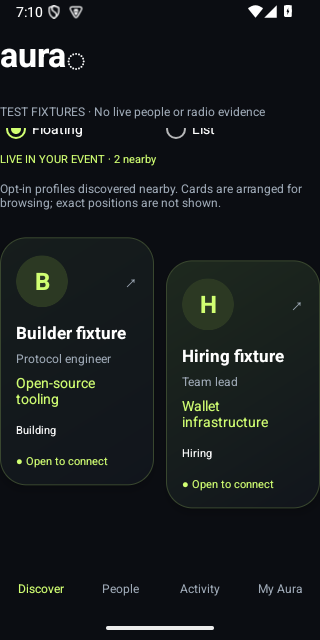
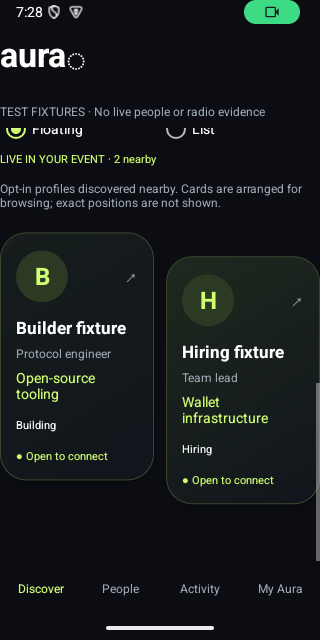
Add live room camera with authorized nearby profiles

diff --git a/ios/Aura/Features/Discovery/DiscoveryView.swift b/ios/Aura/Features/Discovery/DiscoveryView.swift
@@ -1,5 +1,6 @@
 import SwiftUI
 import AVKit
+import AVFoundation
 struct DiscoveryView: View {
     @ObservedObject var model: DiscoveryViewModel
     @State private var query = ""
@@ -16,9 +17,9 @@ struct DiscoveryView: View {
             Text("Builders around you.").font(.system(size:36,weight:.semibold)).tracking(-1)
             Text("Find a collaborator. Meet your next team.").font(.subheadline).foregroundStyle(.secondary)
             Picker("Event",selection:$model.selectedEvent) { Text("Choose an event").tag("");ForEach(model.events) { Text($0.name).tag($0.id) } }.disabled(model.active)
+            Button { showCamera = true } label: { Label("Open room camera",systemImage:"camera.fill").frame(maxWidth:.infinity) }.buttonStyle(.borderedProminent).foregroundStyle(.black)
             HStack {
                 Button(model.active ? "Pause discovery" : "Start discovery ↗") { model.perform { if model.active { await model.stop() } else { try await model.start() } } }.buttonStyle(.borderedProminent).foregroundStyle(.black).disabled(model.busy)
-                Button { showCamera = true } label: { Image(systemName:"camera.viewfinder").font(.title2) }.disabled(!model.active)
             }
             DiscoveryStatus(broadcaster:model.broadcaster,scanner:model.scanner,message:model.statusMessage)
             ForEach(model.requests) { r in VStack(alignment:.leading,spacing:10) {
@@ -42,7 +43,7 @@ struct DiscoveryView: View {
                     Spacer();Image(systemName:"arrow.up.right").foregroundStyle(.secondary)
                 }.padding(18).background(.white.opacity(0.04),in:RoundedRectangle(cornerRadius:18)) } .buttonStyle(.plain) }
             }
-        }.padding(24) }.background(AuraTheme.background).navigationBarHidden(true).sheet(isPresented:$showCamera) { CameraSheet(model:model,positioning:model.positioning) } }
+        }.padding(24) }.background(AuraTheme.background).navigationBarHidden(true).fullScreenCover(isPresented:$showCamera) { CameraSheet(model:model,positioning:model.positioning) } }
     }
 }
 struct DiscoveryStatus:View {
@@ -55,10 +56,54 @@ struct CameraSheet:View {
     @ObservedObject var model:DiscoveryViewModel
     @ObservedObject var positioning:UWBSessionManager
     @Environment(\.dismiss) var dismiss
-    var body:some View { ZStack(alignment:.bottom) {
-        ARAuraView(positioning:positioning,name:model.peers.first(where:{$0.id==positioning.peerID})?.profile.name ?? "Participant").ignoresSafeArea()
-        VStack(spacing:12) { Text("MEASURED DEVICE POSITION").font(.caption2).tracking(2);Text(positioning.message).font(.subheadline);if let distance = positioning.distance { Text("\(distance,specifier:"%.2f") m").font(.title) };Button("Back to nearby list") { dismiss() }.buttonStyle(.borderedProminent).foregroundStyle(.black) }.padding(24).frame(maxWidth:.infinity).background(.ultraThinMaterial)
-    }.onDisappear { Task { await model.endPositioning() } } }
+    @Environment(\.scenePhase) private var phase
+    @State private var cameraAllowed = false
+    @State private var permissionChecked = false
+    @State private var cameraPeer:AuraProfile?
+    var body:some View { ZStack {
+        Color.black.ignoresSafeArea()
+        if cameraAllowed && phase == .active {
+            ARAuraView(positioning:positioning,name:model.peers.first(where:{$0.id==positioning.peerID})?.profile.name ?? "Participant",select:{
+                cameraPeer = model.peers.first(where:{$0.id==positioning.peerID})?.profile
+            }).ignoresSafeArea()
+        } else if permissionChecked {
+            ContentUnavailableView("Camera access is off",systemImage:"camera",description:Text("Allow Camera for Aura in Settings, or use nearby profiles without it.")).foregroundStyle(.white)
+        }
+        VStack(alignment:.leading,spacing:16) {
+            HStack {
+                VStack(alignment:.leading,spacing:5) { Text("aura◌").font(.title.bold());Text("ROOM CAMERA · LIVE ONLY").font(.caption2).tracking(2) }
+                Spacer()
+                Button { dismiss() } label: { Image(systemName:"xmark").padding(12).background(.black.opacity(0.55),in:Circle()) }.accessibilityLabel("Close room camera")
+            }.padding().background(.black.opacity(0.55))
+            Spacer()
+            VStack(alignment:.leading,spacing:12) {
+                HStack { Text(model.active ? "\(model.peers.count) nearby" : "Discovery paused").font(.headline);Spacer();Text("DEVNET").font(.caption2).foregroundStyle(AuraTheme.lime) }
+                Text(positioning.worldTransform == nil ? "Nearby profiles · positions not yet measured" : "Measured device marker · tap to open profile").font(.caption).foregroundStyle(.secondary)
+                if positioning.peerID != nil { Text(positioning.message).font(.caption);if let distance=positioning.distance { Text("\(distance,specifier:"%.2f") m to device").font(.caption.monospaced()) } }
+                if let error=model.error { Text(error).font(.caption).foregroundStyle(.orange) }
+                ScrollView(.horizontal,showsIndicators:false) { HStack(spacing:12) {
+                    ForEach(model.peers.sorted{$0.profile.name<$1.profile.name}) { peer in
+                        Button { cameraPeer=peer.profile } label: {
+                            HStack(spacing:10) { NearbyAvatar(profile:peer.profile,size:40);VStack(alignment:.leading,spacing:4) { Text(peer.profile.name).font(.headline);Text(peer.profile.role).font(.caption);Text(peer.profile.project).font(.caption).foregroundStyle(AuraTheme.lime) } }
+                            .frame(width:220,alignment:.leading).padding(14).background(.white.opacity(0.09),in:RoundedRectangle(cornerRadius:20))
+                        }.buttonStyle(.plain).accessibilityHint("Open this nearby profile; its camera position is not implied")
+                    }
+                } }
+                if model.peers.isEmpty { Text(model.active ? "Keep Aura open on both phones in the same event." : "Start discovery to see opted-in profiles in this room.").font(.subheadline) }
+                Button(model.active ? "Pause discovery" : "Start discovery") { model.perform { if model.active { await model.stop() } else { try await model.start() } } }.buttonStyle(.borderedProminent).foregroundStyle(.black).disabled(model.busy)
+                Text("Camera stays on your phone. Nothing is recorded.").font(.caption2).foregroundStyle(.secondary)
+            }.padding(20).background(.ultraThinMaterial,in:RoundedRectangle(cornerRadius:26)).padding(.horizontal,14).padding(.bottom,12)
+        }.foregroundStyle(.white)
+    }.task {
+        switch AVCaptureDevice.authorizationStatus(for:.video) {
+        case .authorized: cameraAllowed=true
+        case .notDetermined: cameraAllowed=await AVCaptureDevice.requestAccess(for:.video)
+        default: cameraAllowed=false
+        }
+        permissionChecked=true
+    }.sheet(item:$cameraPeer) { peer in PeerDetailView(model:model,peer:peer) }
+    .onDisappear { Task { await model.endPositioning() } }
+    }
 }
 struct PeerDetailView:View {
     @ObservedObject var model:DiscoveryViewModel

diff --git a/ios/Aura/Core/AR/ARAuraView.swift b/ios/Aura/Core/AR/ARAuraView.swift
@@ -2,28 +2,46 @@ import SwiftUI
 import ARKit
 import RealityKit
 
+/// Only fresh Nearby Interaction measurements place identity content in the scene.
 struct ARAuraView: UIViewRepresentable {
     @ObservedObject var positioning: UWBSessionManager
     var name: String
+    var select: () -> Void = {}
+    func makeCoordinator() -> Coordinator { Coordinator(positioning:positioning) }
     func makeUIView(context:Context) -> ARView {
         let view = ARView(frame:.zero,cameraMode:.ar,automaticallyConfigureSession:false)
         view.session = positioning.arSession
         if ARWorldTrackingConfiguration.isSupported { view.session.run(ARWorldTrackingConfiguration()) }
+        context.coordinator.view=view
+        view.addGestureRecognizer(UITapGestureRecognizer(target:context.coordinator,action:#selector(Coordinator.tap(_:))))
+        context.coordinator.start()
         return view
     }
-    func updateUIView(_ view:ARView,context:Context) {
-        view.scene.anchors.removeAll()
-        guard let transform = positioning.worldTransform,
-              let frame = view.session.currentFrame,
-              case .normal = frame.camera.trackingState else { return }
-        let point = SIMD3<Float>(transform.columns.3.x,transform.columns.3.y,transform.columns.3.z)
-        let camera = simd_inverse(frame.camera.transform) * SIMD4<Float>(point,1)
-        guard camera.z < 0,let projected = view.project(point),view.bounds.contains(projected) else { return }
-        let anchor = AnchorEntity(world:point)
-        let card = ProfileCardEntity.make(name:name)
-        anchor.addChild(card)
-        card.look(at:SIMD3<Float>(frame.camera.transform.columns.3.x,frame.camera.transform.columns.3.y,frame.camera.transform.columns.3.z),from:point,relativeTo:nil)
-        view.scene.addAnchor(anchor)
+    func updateUIView(_ view:ARView,context:Context) { context.coordinator.name=name;context.coordinator.select=select }
+    static func dismantleUIView(_ view:ARView,coordinator:Coordinator) { coordinator.stop();view.session.pause();view.scene.anchors.removeAll() }
+    final class Coordinator:NSObject {
+        weak var view:ARView?
+        let positioning:UWBSessionManager
+        var name=""
+        var select:()->Void = {}
+        private var displayLink:CADisplayLink?
+        private var anchor:AnchorEntity?
+        private var card:Entity?
+        private var displayedName=""
+        init(positioning:UWBSessionManager){self.positioning=positioning}
+        func start(){let link=CADisplayLink(target:self,selector:#selector(updateFrame));link.add(to:.main,forMode:.common);displayLink=link}
+        func stop(){displayLink?.invalidate();displayLink=nil;anchor?.removeFromParent();anchor=nil;card=nil}
+        @objc func tap(_ gesture:UITapGestureRecognizer){guard let view,positioning.worldTransform != nil,anchor?.isEnabled == true,view.entity(at:gesture.location(in:view)) != nil else{return};select()}
+        @objc func updateFrame(){
+            guard let view,let transform=positioning.worldTransform,let frame=view.session.currentFrame,case .normal=frame.camera.trackingState else{anchor?.isEnabled=false;return}
+            let point=SIMD3<Float>(transform.columns.3.x,transform.columns.3.y,transform.columns.3.z)
+            let camera=simd_inverse(frame.camera.transform)*SIMD4<Float>(point,1)
+            guard camera.z<0,let projected=view.project(point),view.bounds.contains(projected) else{anchor?.isEnabled=false;return}
+            if card==nil || displayedName != name {
+                anchor?.removeFromParent();let next=AnchorEntity(world:.zero);let content=ProfileCardEntity.make(name:name);content.generateCollisionShapes(recursive:true);next.addChild(content);view.scene.addAnchor(next);anchor=next;card=content;displayedName=name
+            }
+            anchor?.isEnabled=true
+            card?.look(at:SIMD3<Float>(frame.camera.transform.columns.3.x,frame.camera.transform.columns.3.y,frame.camera.transform.columns.3.z),from:point,relativeTo:nil)
+        }
     }
-    static func dismantleUIView(_ uiView:ARView,coordinator:()) { uiView.session.pause();uiView.scene.anchors.removeAll() }
 }

diff --git a/android/app/src/main/java/app/aura/pilot/MainActivity.java b/android/app/src/main/java/app/aura/pilot/MainActivity.java
@@ -29,7 +29,7 @@ import java.util.concurrent.ExecutorService;
 import java.util.concurrent.Executors;
 
 /** Native Android pilot with opt-in BLE and official Mobile Wallet Adapter signing. */
-public final class MainActivity extends Activity implements BleDiscovery.Listener {
+public final class MainActivity extends androidx.activity.ComponentActivity implements BleDiscovery.Listener {
     private static final int BG = Color.rgb(11,13,18), PANEL = Color.rgb(20,25,34), LIME = Color.rgb(209,255,114), MUTED = Color.rgb(158,169,182);
     private static final String[] INTENTS = {"Building","Hiring","Fundraising","Looking for a team","Offering feedback","Open to connect"};
     private final Handler main = new Handler(Looper.getMainLooper());
@@ -46,7 +46,9 @@ public final class MainActivity extends Activity implements BleDiscovery.Listene
     private LinearLayout root, body, nearbyList;
     private TextView notice;
     private String nearbyRenderKey;
-    private boolean floatingProfiles = true;
+    private boolean floatingProfiles = true, cameraMode;
+    private LinearLayout cameraPeers;
+    private TextView cameraNearbyCount;
     private JSONObject profile;
     private JSONArray events = new JSONArray(), connections = new JSONArray(), payments = new JSONArray();
     private String origin, token, selectedEvent = "", tab = "Discover", search = "", intent = "All";
@@ -112,7 +114,7 @@ public final class MainActivity extends Activity implements BleDiscovery.Listene
         if (destroyed) return;
         root = column();root.setBackgroundColor(BG);
         root.setOnApplyWindowInsetsListener((v,insets)->{var bars=insets.getInsets(WindowInsets.Type.systemBars());v.setPadding(dp(22)+bars.left,bars.top,dp(22)+bars.right,bars.bottom);return insets;});
-        TextView logo = text("aura◌",34,Color.WHITE);logo.setTypeface(null,Typeface.BOLD);root.addView(logo);
+        TextView logo = text("aura◌",34,Color.WHITE);logo.setTypeface(null,Typeface.BOLD);if(profile!=null&&cameraMode&&"Discover".equals(tab))logo.setVisibility(View.GONE);root.addView(logo);
         notice = text("DEVNET PILOT · Your wallet keys stay in your wallet.",12,MUTED);root.addView(notice);
         ScrollView scroll = new ScrollView(this);body = column();body.setPadding(0,dp(12),0,dp(28));scroll.addView(body);root.addView(scroll,new LinearLayout.LayoutParams(-1,0,1));
         if (profile != null) {
@@ -124,7 +126,7 @@ public final class MainActivity extends Activity implements BleDiscovery.Listene
         }
         if(nativeWallet.busy()){Button cancel=new Button(this);cancel.setText(R.string.close_wallet_request);root.addView(cancel);cancel.setOnClickListener(v->{nativeWallet.cancel();render();message("Wallet request closed. Check Activity before starting another payment.");});}
         setContentView(root);root.requestApplyInsets();
-        if (profile == null) onboarding();else switch(tab) {case "People":people();break;case "Activity":activity();break;case "My Aura":profileEditor();break;default:discover();}
+        if (profile == null) onboarding();else switch(tab) {case "People":people();break;case "Activity":activity();break;case "My Aura":profileEditor();break;default:if(cameraMode)roomCamera();else discover();}
     }
     private void onboarding() {
         title(body,"Your people.\nAlready in the room.");body.addView(text("Connect your identity, choose to be seen, and find a reason to say hello.",16,MUTED));
@@ -161,6 +163,7 @@ public final class MainActivity extends Activity implements BleDiscovery.Listene
         },null);
     }
     private void discover() {
+        button(body,"Open room camera ↗",this::openRoomCamera);
         body.addView(text("THE ROOM IS YOURS.",11,LIME));title(body,"Builders around you.");body.addView(text("Find a collaborator. Meet your next team.",15,MUTED));
         List<String> names=new ArrayList<>();List<String> ids=new ArrayList<>();int chosen=0;
         for(int i=0;i<events.length();i++){JSONObject e=events.optJSONObject(i);names.add(e.optString("name"));ids.add(e.optString("id"));if(e.optString("id").equals(selectedEvent))chosen=i;}
@@ -176,7 +179,36 @@ public final class MainActivity extends Activity implements BleDiscovery.Listene
         mode.setOnCheckedChangeListener((group,id)->{RadioButton chosenMode=group.findViewById(id);floatingProfiles="Floating".contentEquals(chosenMode.getText());renderPeers();});body.addView(mode);
         nearbyList=column();nearbyRenderKey=null;body.addView(nearbyList);renderPeers();
     }
+    private void openRoomCamera(){
+        if(checkSelfPermission(android.Manifest.permission.CAMERA)!=android.content.pm.PackageManager.PERMISSION_GRANTED){requestPermissions(new String[]{android.Manifest.permission.CAMERA},11);return;}
+        cameraMode=true;render();
+    }
+    private void roomCamera(){
+        body.setPadding(0,0,0,0);
+        FrameLayout scene=new FrameLayout(this);scene.setBackgroundColor(Color.BLACK);body.addView(scene,new LinearLayout.LayoutParams(-1,dp(450)));
+        View viewport=(View)body.getParent();viewport.addOnLayoutChangeListener((v,left,top,right,bottom,oldLeft,oldTop,oldRight,oldBottom)->{int height=bottom-top;if(height>0&&scene.getLayoutParams().height!=height){scene.getLayoutParams().height=height;scene.requestLayout();}});
+        TextView cameraState=text("Starting camera…",12,Color.WHITE);
+        if(checkSelfPermission(android.Manifest.permission.CAMERA)==android.content.pm.PackageManager.PERMISSION_GRANTED)scene.addView(new RoomCameraView(this,this,cameraState::setText),new FrameLayout.LayoutParams(-1,-1));
+        else cameraState.setText("Camera access is off. Return to nearby view to allow it.");
+        LinearLayout header=column();header.setPadding(dp(16),dp(12),dp(16),dp(12));header.setBackgroundColor(0x99000000);header.addView(text("AURA · ROOM CAMERA",14,LIME));header.addView(cameraState);Button back=button(header,"Nearby view and event",()->{cameraMode=false;render();});back.setLayoutParams(new LinearLayout.LayoutParams(-1,dp(40)));scene.addView(header,new FrameLayout.LayoutParams(-1,-2,Gravity.TOP));
+        LinearLayout dock=column();dock.setPadding(dp(12),dp(10),dp(12),dp(12));dock.setBackgroundColor(0xDD0B0D12);cameraNearbyCount=text("",14,LIME);dock.addView(cameraNearbyCount);dock.addView(text("Nearby profiles · direction unavailable on this device",12,MUTED));
+        HorizontalScrollView strip=new HorizontalScrollView(this);cameraPeers=new LinearLayout(this);strip.addView(cameraPeers);dock.addView(strip);scene.addView(dock,new FrameLayout.LayoutParams(-1,-2,Gravity.BOTTOM));
+        LinearLayout controls=new LinearLayout(this);dock.addView(controls);
+        Button discovery=button(controls,active?"Pause discovery":starting?"Cancel discovery start":"Start discovery ↗",()->{if(active||starting){stopDiscovery();render();}else startDiscovery();});discovery.setTextSize(12);discovery.setLayoutParams(new LinearLayout.LayoutParams(0,dp(48),1));
+        Button saved=button(controls,"Saved connections → People",()->{tab="People";render();refresh();});saved.setTextSize(12);saved.setLayoutParams(new LinearLayout.LayoutParams(0,dp(48),1));
+        nearbyRenderKey=null;renderCameraPeers();
+    }
+    private void renderCameraPeers(){
+        if(cameraPeers==null||!"Discover".equals(tab))return;
+        List<Peer> visible=new ArrayList<>();long now=System.currentTimeMillis();if(active)for(Peer p:peers.values())if(PresenceRules.fresh(p.seen,p.expires,now)&&!"stealth".equals(p.profile.optString("status")))visible.add(p);
+        visible.sort(Comparator.comparing(p->p.profile.optString("wallet")));
+        String key=active+":"+visible.stream().map(p->p.profile.toString()).reduce("",String::concat);if(key.equals(nearbyRenderKey))return;nearbyRenderKey=key;
+        cameraNearbyCount.setText(active?visible.size()+" nearby · tap a profile":"Discovery paused");cameraPeers.removeAllViews();
+        if(visible.isEmpty())cameraPeers.addView(text(active?"No nearby profiles yet":"Start discovery to meet people in this room",14,Color.WHITE));
+        for(Peer p:visible){JSONObject person=p.profile;Button card=new Button(this);card.setTag("camera-profile-"+person.optString("wallet"));card.setAllCaps(false);card.setText(person.optString("name")+"\n"+person.optString("role")+"\n"+person.optString("project"));card.setTextColor(LIME);card.setBackground(background(PANEL,18));LinearLayout.LayoutParams params=new LinearLayout.LayoutParams(dp(205),dp(115));params.setMargins(dp(4),0,dp(8),0);cameraPeers.addView(card,params);card.setOnClickListener(v->detail(person,""));}
+    }
     private void renderPeers() {
+        if(cameraMode){renderCameraPeers();return;}
         if(nearbyList==null||!"Discover".equals(tab))return;
         List<Peer> matches=new ArrayList<>();long now=System.currentTimeMillis();
         if(active)for(Peer peer:peers.values()){
@@ -219,7 +251,7 @@ public final class MainActivity extends Activity implements BleDiscovery.Listene
             starting=false;presenceExpires=r.getLong("expires");active=true;radio.start(r.getString("token"),presenceExpires);render();if(active)main.postDelayed(heartbeat,1000);
         },r->{if(run!=discoveryEpoch)return;stopDiscovery();render();message(r.optString("error"));});
     }
-    @Override public void onRequestPermissionsResult(int requestCode,String[] permissions,int[] grants){super.onRequestPermissionsResult(requestCode,permissions,grants);if(requestCode==10){if(radio.permitted())startDiscovery();else message("Nearby Devices access was denied. You can still use your profile and saved connections.");}}
+    @Override public void onRequestPermissionsResult(int requestCode,String[] permissions,int[] grants){super.onRequestPermissionsResult(requestCode,permissions,grants);if(requestCode==10){if(radio.permitted())startDiscovery();else message("Nearby Devices access was denied. You can still use your profile and saved connections.");}else if(requestCode==11){if(checkSelfPermission(android.Manifest.permission.CAMERA)==android.content.pm.PackageManager.PERMISSION_GRANTED){cameraMode=true;render();}else message("Camera access was denied. Nearby profiles and saved connections remain available.");}}
     private void heartbeat() {
         if(!active||!foreground||destroyed)return;long now=System.currentTimeMillis();peers.values().removeIf(p->!PresenceRules.fresh(p.seen,p.expires,now));renderPeers();
         if(!radio.ready()||presenceExpires<=now){stopDiscovery();render();message("Discovery stopped: Bluetooth or presence is unavailable.");return;}

diff --git a/android/app/src/androidTest/java/app/aura/pilot/AndroidPilotTest.java b/android/app/src/androidTest/java/app/aura/pilot/AndroidPilotTest.java
@@ -69,6 +69,21 @@ public final class AndroidPilotTest {
                 a.onToken("fixture-builder",peerToken,-50);a.onToken("fixture-hiring",otherToken,-55);
             });
             awaitText(scenario,"LIVE IN YOUR EVENT · 2 nearby");
+            // Camera preview uses emulator optics; identity cards still require authorized API resolution.
+            InstrumentationRegistry.getInstrumentation().getUiAutomation().grantRuntimePermission(context().getPackageName(),android.Manifest.permission.CAMERA);
+            scenario.onActivity(a->text(a.findViewById(android.R.id.content),"Open room camera ↗").performClick());
+            awaitText(scenario,"Camera live · nothing is recorded");awaitText(scenario,"2 nearby · tap a profile");
+            scenario.onActivity(a->{View root=a.findViewById(android.R.id.content);assertNotNull(root.findViewWithTag("room-camera-preview"));root.findViewWithTag("camera-profile-"+peerWallet).performClick();});
+            awaitDialogText(scenario,"Save connection");InstrumentationRegistry.getInstrumentation().sendKeyDownUpSync(android.view.KeyEvent.KEYCODE_BACK);
+            InstrumentationRegistry.getInstrumentation().waitForIdleSync();Thread.sleep(500);
+            scenario.onActivity(a->{try{var f=MainActivity.class.getDeclaredField("notice");f.setAccessible(true);((TextView)f.get(a)).setText("CAMERA TEST FIXTURES · Emulated scene and synthetic profiles");}catch(Exception e){throw new AssertionError(e);}});
+            InstrumentationRegistry.getInstrumentation().waitForIdleSync();
+            Thread.sleep(350);
+            android.graphics.Bitmap cameraShot=InstrumentationRegistry.getInstrumentation().getUiAutomation().takeScreenshot();assertNotNull(cameraShot);
+            try(var stream=new java.io.FileOutputStream(new java.io.File(context().getExternalFilesDir(null),"camera-test-fixtures.png"))){cameraShot.compress(android.graphics.Bitmap.CompressFormat.PNG,100,stream);}cameraShot.recycle();
+            scenario.onActivity(a->text(a.findViewById(android.R.id.content),"Pause discovery").performClick());awaitText(scenario,"Discovery paused");
+            scenario.onActivity(a->{View root=a.findViewById(android.R.id.content);assertNull(root.findViewWithTag("camera-profile-"+peerWallet));text(root,"Nearby view and event").performClick();setPrivate(a,"active",true);callPrivate(a,"render");a.onToken("fixture-builder",peerToken,-50);a.onToken("fixture-hiring",otherToken,-55);});
+            awaitText(scenario,"LIVE IN YOUR EVENT · 2 nearby");
             scenario.onActivity(a->{View root=a.findViewById(android.R.id.content);assertNotNull(root.findViewWithTag("nearby-profile-"+peerWallet));((android.widget.Spinner)root.findViewWithTag("Connection intent")).setSelection(2);});
             awaitText(scenario,"LIVE IN YOUR EVENT · 1 nearby");
             scenario.onActivity(a->{View root=a.findViewById(android.R.id.content);assertNotNull(text(root,"Hiring fixture"));assertNull(text(root,"Builder fixture"));((android.widget.Spinner)root.findViewWithTag("Connection intent")).setSelection(0);});

diff --git a/android/app/src/main/java/app/aura/pilot/RoomCameraView.java b/android/app/src/main/java/app/aura/pilot/RoomCameraView.java
@@ -1,0 +1,33 @@
+package app.aura.pilot;
+
+import android.content.Context;
+import android.widget.FrameLayout;
+import androidx.camera.core.CameraSelector;
+import androidx.camera.core.Preview;
+import androidx.camera.lifecycle.ProcessCameraProvider;
+import androidx.camera.view.PreviewView;
+import androidx.lifecycle.LifecycleOwner;
+import java.util.function.Consumer;
+
+/** Local preview only: no frame analysis, recording, upload or face identification. */
+// Constructed with an explicit lifecycle owner; never inflated from XML.
+@android.annotation.SuppressLint("ViewConstructor")
+final class RoomCameraView extends FrameLayout {
+    private final LifecycleOwner owner;
+    private final Consumer<String> status;
+    private final PreviewView view;
+    private ProcessCameraProvider provider;
+    private Preview preview;
+    private int generation;
+    RoomCameraView(Context context,LifecycleOwner owner,Consumer<String> status){
+        super(context);this.owner=owner;this.status=status;setTag("room-camera-preview");
+        view=new PreviewView(context);view.setImplementationMode(PreviewView.ImplementationMode.COMPATIBLE);view.setScaleType(PreviewView.ScaleType.FILL_CENTER);addView(view,new LayoutParams(-1,-1));
+        view.getPreviewStreamState().observe(owner,state->{if(isAttachedToWindow())status.accept(state==PreviewView.StreamState.STREAMING?"Camera live · nothing is recorded":"Starting camera…");});
+    }
+    @Override protected void onAttachedToWindow(){super.onAttachedToWindow();final int run=++generation;status.accept("Starting camera…");var future=ProcessCameraProvider.getInstance(getContext());future.addListener(()->{
+        if(run!=generation||!isAttachedToWindow())return;
+        try{provider=future.get();preview=new Preview.Builder().build();preview.setSurfaceProvider(view.getSurfaceProvider());provider.bindToLifecycle(owner,CameraSelector.DEFAULT_BACK_CAMERA,preview);}
+        catch(Exception e){status.accept("Camera unavailable. You can still use nearby profiles.");}
+    },getContext().getMainExecutor());}
+    @Override protected void onDetachedFromWindow(){generation++;if(provider!=null&&preview!=null)provider.unbind(preview);preview=null;view.getPreviewStreamState().removeObservers(owner);super.onDetachedFromWindow();}
+}

diff --git a/docs/ROOM-CAMERA.md b/docs/ROOM-CAMERA.md
@@ -1,0 +1,26 @@
+# Aura room camera
+
+The intended experience is to open a live camera, look around an event, and open opted-in participant profiles from the camera view. Discovery, wallet verification, and spatial placement are separate capabilities.
+
+## Implemented in this build
+
+- Android: CameraX rear-camera preview with explicit runtime permission, lifecycle-bound capture, a responsive nearby-profile tray, and links to saved connections. Opening a profile uses the same authenticated flow as Discover. Pausing discovery clears nearby cards. Closing the camera or leaving the app releases or suspends camera capture.
+- iPhone: a full-screen ARKit camera with explicit permission, nearby-profile tray, profile sheets, discovery controls, and positioning status. One accepted Nearby Interaction peer can have a tappable profile marker at its measured device position. The marker updates with the camera frame and hides when positioning or camera tracking is unavailable.
+- Images stay on the device. This feature contains no image uploads, face matching, video recording, or microphone capture.
+
+## What profile placement means
+
+Nearby trays show event-scoped profiles resolved from Bluetooth tokens. Their order is for browsing and does not represent bearing, distance, a person in the camera frame, or device coordinates. They remain labeled as unpositioned.
+
+The iPhone measured marker uses Nearby Interaction and the shared AR session. It marks the other device, not a biometric identification of the person holding it. The participant must accept positioning first. Physical camera-registration accuracy is still unverified.
+
+Android camera preview does not implement UWB/ARCore positioning. This iPhone/Android pair can test a live preview and authorized nearby profiles, but cannot validate the existing Apple-to-Apple positioning path. Room-wide, multi-person anchored overlays remain unimplemented; a camera background alone is not that capability.
+
+## Physical checks
+
+1. Update each app, preserve the existing wallet session, and join the same event with distinct test wallets.
+2. Open room camera. Check camera permission acceptance, denial, portrait/landscape layout, and return from background. The camera indicator must stop when leaving the camera or backgrounding the app.
+3. Start discovery on both devices. Check that fresh authorized profiles appear in the camera tray, open their details, save a note, and retrieve it without discovery.
+4. Pause discovery or enter Stealth and verify cards clear. A physical Stealth regression remains pending after the Android profile-draft fix.
+5. With a second compatible iPhone, request and accept positioning, then verify measured-marker alignment, movement, out-of-view hiding, occlusion, expiry, and tap behavior against the physical scene. Record failures and missing measurements.
+6. Do not label tray browsing as positional AR or the emulator camera as a physical device result.

diff --git a/docs/CAPABILITIES.md b/docs/CAPABILITIES.md
@@ -15,6 +15,7 @@ This matrix tracks the implementation and validation of Aura’s mobile apps and
 | Event-scoped access | Codes, memberships, event creation, no global directory endpoint | API membership isolation tests; organizer moderation/invite quotas pending |
 | iOS UWB positioning | Created-before-exchange NISession, authenticated relay, explicit acceptance, one active peer, expiry | Compiled only; physical distance/direction, occlusion and orientation tests required |
 | iOS AR identity | ARKit/NI shared session, measured world transform, stale clearing, projection/tracking gate | No BLE-derived invented position; physical registration accuracy unverified |
+| Room camera | Android CameraX live preview and iPhone full-screen ARKit camera, authorized nearby-profile trays, tap-to-open profiles; iPhone measured marker follows camera frames | Camera preview and position are separate. Android emulator checks and iOS signed build; real camera / marker validation pending. See [room camera](ROOM-CAMERA.md). |
 | Multi-person room overlays | Not yet implemented | Current UWB pilot is one accepted peer at a time; multi-session feasibility study required |
 | Floating nearby profiles | Native iOS and Android cards, protected avatars, name/role/project search, intent filters and list alternative; populated by authorized BLE resolution | Browsing layout, not measured coordinates; Android UI fixtures and physical-device evidence are tracked separately |
 | Nearby fallback | List/search of resolved BLE peers independent of UWB | Compiled; non-UWB device testing required |

diff --git a/docs/evidence/VERIFICATION.md b/docs/evidence/VERIFICATION.md
@@ -1,5 +1,12 @@
 # Verification record
 
+## 2026-10-02 — live room camera
+
+- Added local-only room-camera preview on Android and iPhone, authorized nearby-profile trays, profile opening, discovery controls, and permission handling. No recording, microphone capture, face matching, or image upload was added.
+- Android build and lint pass with no errors. Lint includes dependency upgrade notices, the existing debug HTTP configuration, and untranslated UI strings. Four emulator instrumentation tests cover a streaming CameraX preview, profile opening from the camera tray, and clearing cards on pause, alongside the prior save/profile checks. `android-room-camera-fixtures.png` is an emulated camera scene with synthetic profile fixtures.
+- The signed iPhone camera build succeeded and was installed on the connected test phone. The measured-marker renderer updates per display frame, reuses its entity, hides invalid/out-of-view measurements, and supports taps. Camera and physical marker behavior still require user validation.
+- Nearby trays do not represent physical positions. Multi-person spatial overlays remain unimplemented. See `../ROOM-CAMERA.md` for the implementation boundary and device checks.
+
 ## 2026-10-02 — profile drafts and saved connections
 
 - Android list refreshes no longer rebuild the My Aura form and discard unsaved text or Presence selections. Discover now links directly to saved connections in People. Reopening a saved profile from Discover retains its private note and saved state.
